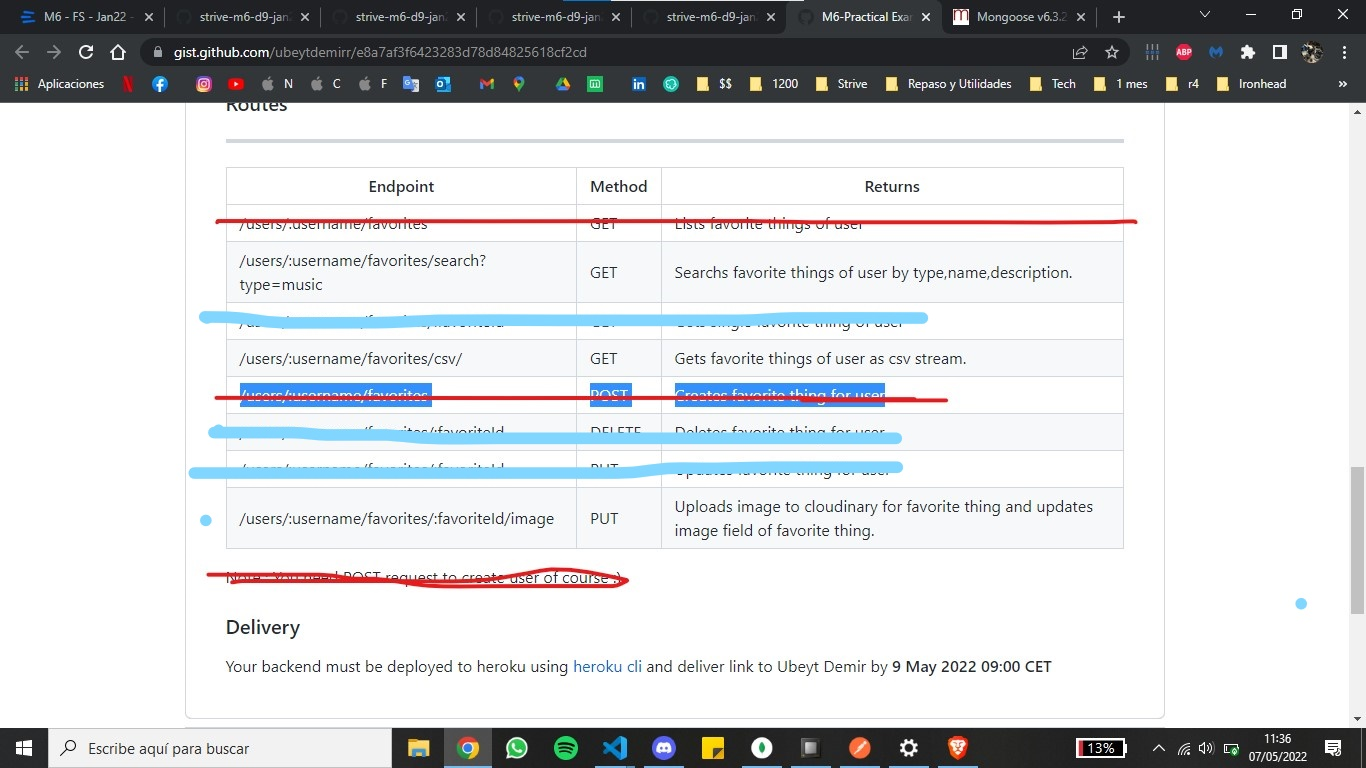
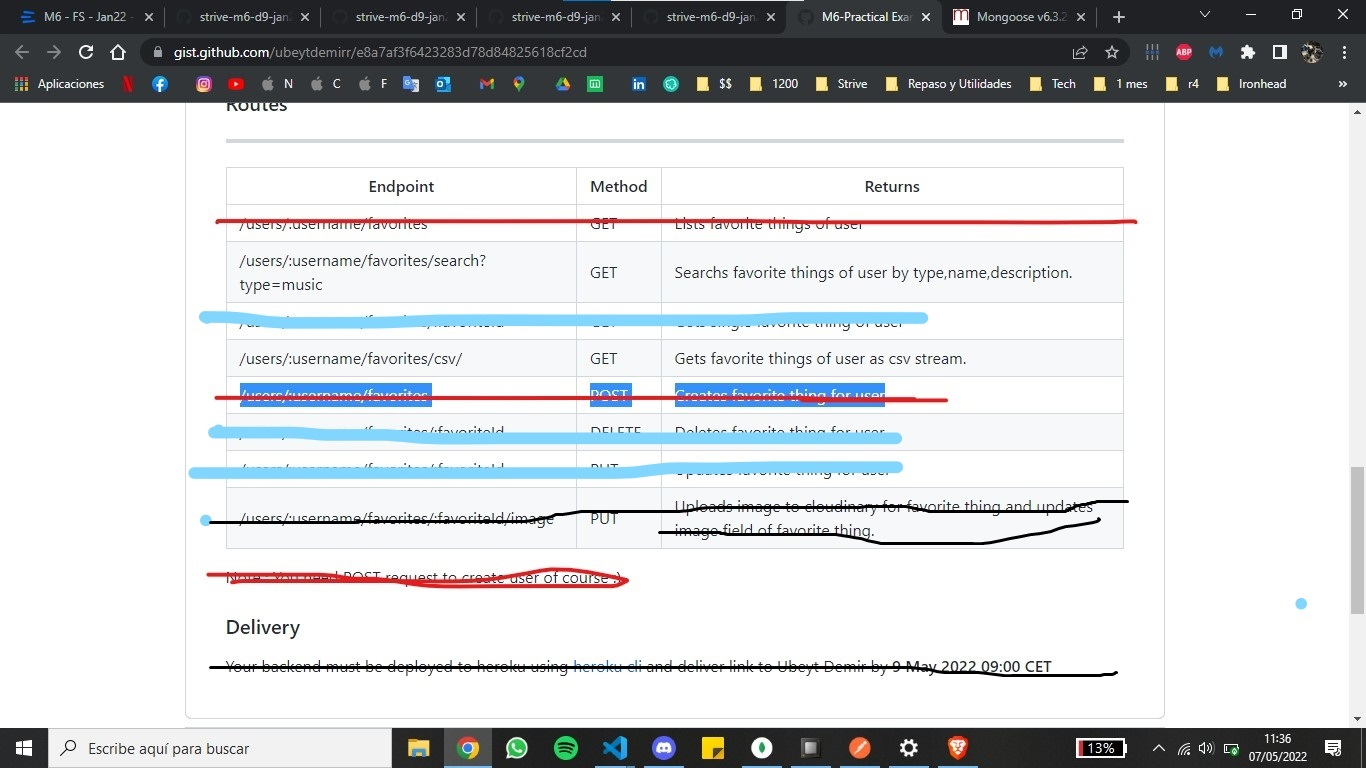
testing every endpoint

diff --git a/src/users/index.js b/src/users/index.js
@@ -8,6 +8,7 @@ import { v2 as cloudinary } from "cloudinary"
 const usersRouter = express.Router()
 
 const cloudinaryfavImagesUploader = multer({
+  //-----TESTED----
   storage: new CloudinaryStorage({
     cloudinary,
     params: {
@@ -58,12 +59,12 @@ usersRouter.post("/:username/favorites", async (req, res, next) => {
 })
 
 ///users/:username/favorites
-//Lists favorite things of user
+//Lists favorite things of user-----TESTED----
 usersRouter.get("/:username/favorites", async (req, res, next) => {
   try {
     const user = await usersSchema.findOne({ username: req.params.username }).populate("favorites")
 
-    res.status(200).send(user)
+    res.status(200).send(user.favorites)
   } catch (error) {
     console.log(error)
     next(error)
@@ -81,7 +82,7 @@ usersRouter.get("/:username/favorites", async (req, res, next) => {
 // })
 
 /////users/:username/favorites/:favoriteId
-// Gets single favorite thing of user
+// Gets single favorite thing of user------TESTED----
 usersRouter.get("/:username/favorites/:favoriteId", async (req, res, next) => {
   const user = await usersSchema.findOne({ username: req.params.username }).populate("favorites")
 
@@ -153,7 +154,7 @@ usersRouter.put("/favorites/:favoriteId", async (req, res, next) => {
   }
 })
 
-// /users/:username/favorites/:favoriteId/image ---CRASHES-----
+// /users/:username/favorites/:favoriteId/image ---TESTED-----
 // 	PUT.	Uploads image to cloudinary for favorite thing and updates image field of favorite thing.
 usersRouter.put("/favorites/:favoriteId/image", cloudinaryfavImagesUploader, async (req, res, next) => {
   try {
